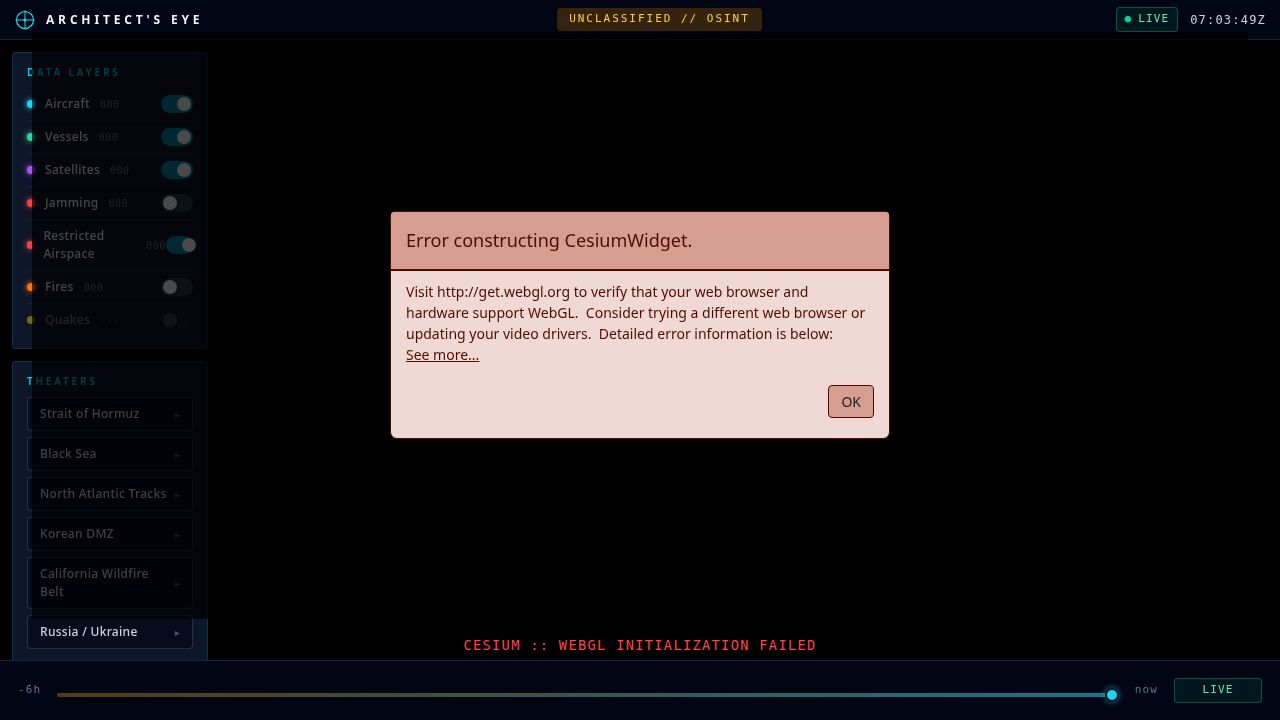
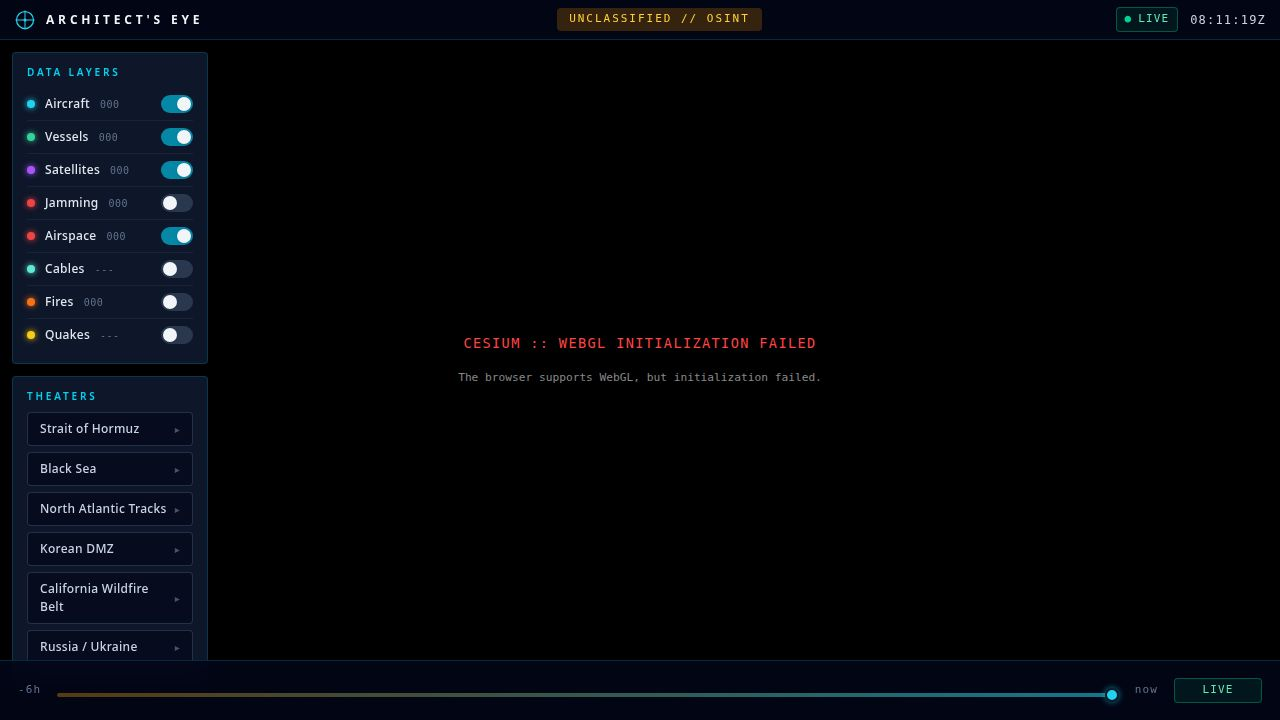
Add interactive submarine cable layer to the map
Integrates a new layer for visualizing submarine cables, including data fetching, rendering with Cesium's PolylineCollection, click-to-inspect functionality, and UI toggles in the EntityPanel and LayerToggles.

Replit-Commit-Author: Agent
Replit-Commit-Session-Id: 271b35b5-e41b-4391-ba1b-3de22340e64c
Replit-Commit-Checkpoint-Type: full_checkpoint
Replit-Commit-Event-Id: a6e43c1e-639c-4319-ae88-d00151cbc64d
Replit-Commit-Screenshot-Url: https://storage.googleapis.com/screenshot-production-us-central1/fbc3cfa2-d368-4926-8dd3-36ac24d619c8/271b35b5-e41b-4391-ba1b-3de22340e64c/ZWLa27W
Replit-Helium-Checkpoint-Created: true

diff --git a/artifacts/architects-eye/src/layers/SubmarineCablesLayer.ts b/artifacts/architects-eye/src/layers/SubmarineCablesLayer.ts
@@ -1,0 +1,149 @@
+import * as Cesium from "cesium";
+import { useStore } from "../store";
+import {
+  registerClickResolver,
+  unregisterClickResolver,
+  type ClickResult,
+} from "../utils/pick-resolvers";
+
+const CABLES_URL = "/data/submarine-cables.geojson";
+const DEFAULT_COLOR = "#5eead4";
+
+export interface CableMeta {
+  id: string;
+  name: string;
+  color: string;
+}
+
+interface CableFeatureProps {
+  id?: string;
+  name?: string;
+  color?: string;
+}
+
+interface CableFeature {
+  type: "Feature";
+  properties: CableFeatureProps;
+  geometry: {
+    type: "MultiLineString";
+    coordinates: number[][][];
+  };
+}
+
+interface CableFeatureCollection {
+  type: "FeatureCollection";
+  features: CableFeature[];
+}
+
+export class SubmarineCablesLayer {
+  private viewer: Cesium.Viewer;
+  private collection: Cesium.PolylineCollection | null = null;
+  private polylineToCable: Map<Cesium.Polyline, CableMeta> = new Map();
+  private unsubscribeStore: (() => void) | null = null;
+  private currentVisibility = false;
+  private destroyed = false;
+
+  constructor(viewer: Cesium.Viewer) {
+    this.viewer = viewer;
+  }
+
+  async mount(): Promise<void> {
+    this.currentVisibility =
+      useStore.getState().layerVisibility.submarineCables;
+
+    const collection = new Cesium.PolylineCollection();
+    collection.show = this.currentVisibility;
+    this.viewer.scene.primitives.add(collection);
+    if (this.viewer.isDestroyed()) {
+      this.destroy();
+      return;
+    }
+    this.collection = collection;
+
+    this.unsubscribeStore = useStore.subscribe((state) => {
+      const next = state.layerVisibility.submarineCables;
+      if (next !== this.currentVisibility) {
+        this.currentVisibility = next;
+        if (this.collection) this.collection.show = next;
+      }
+    });
+
+    registerClickResolver("cable", (picked) => this.resolveClick(picked));
+
+    try {
+      const res = await fetch(CABLES_URL);
+      if (!res.ok) {
+        throw new Error(`HTTP ${res.status}`);
+      }
+      const data = (await res.json()) as CableFeatureCollection;
+      if (this.destroyed || !this.collection) return;
+      this.ingest(data);
+      useStore
+        .getState()
+        .setLayerCount("submarineCables", data.features.length);
+      useStore.getState().setLayerAvailable("submarineCables", true);
+    } catch (err) {
+      console.error("[CABLES] failed to load submarine cables:", err);
+      useStore.getState().setLayerAvailable("submarineCables", false);
+    }
+  }
+
+  private ingest(data: CableFeatureCollection): void {
+    if (!this.collection) return;
+    for (const feature of data.features) {
+      const props = feature.properties ?? {};
+      const meta: CableMeta = {
+        id: props.id ?? "",
+        name: props.name ?? "Unknown cable",
+        color: props.color ?? DEFAULT_COLOR,
+      };
+      const cesiumColor = Cesium.Color.fromCssColorString(meta.color);
+      const material = Cesium.Material.fromType("PolylineGlow", {
+        color: cesiumColor,
+        glowPower: 0.25,
+        taperPower: 1.0,
+      });
+      for (const sub of feature.geometry.coordinates) {
+        if (!sub || sub.length < 2) continue;
+        const flat: number[] = [];
+        for (const [lon, lat] of sub) {
+          flat.push(lon, lat);
+        }
+        const polyline = this.collection.add({
+          positions: Cesium.Cartesian3.fromDegreesArray(flat),
+          width: 2.5,
+          material,
+        });
+        this.polylineToCable.set(polyline, meta);
+      }
+    }
+  }
+
+  private resolveClick(picked: unknown): ClickResult | null {
+    if (!this.currentVisibility) return null;
+    if (!picked || typeof picked !== "object") return null;
+    const primitive = (picked as { primitive?: unknown }).primitive;
+    if (!(primitive instanceof Cesium.Polyline)) return null;
+    const meta = this.polylineToCable.get(primitive);
+    if (!meta) return null;
+    // No fly: cables span thousands of km — clicking opens EntityPanel only.
+    return {
+      selected: { type: "cable", id: meta.id, data: meta },
+    };
+  }
+
+  destroy(): void {
+    this.destroyed = true;
+    unregisterClickResolver("cable");
+    if (this.unsubscribeStore) {
+      this.unsubscribeStore();
+      this.unsubscribeStore = null;
+    }
+    if (this.collection && !this.viewer.isDestroyed()) {
+      this.viewer.scene.primitives.remove(this.collection);
+    }
+    this.collection = null;
+    this.polylineToCable.clear();
+    useStore.getState().setLayerCount("submarineCables", 0);
+  }
+}

diff --git a/artifacts/architects-eye/src/components/EntityPanel.tsx b/artifacts/architects-eye/src/components/EntityPanel.tsx
@@ -3,6 +3,7 @@ import type { Aircraft, Fire, Quake } from "../utils/api";
 import type { SatelliteMeta } from "../utils/tle";
 import type { VesselSelectionData } from "../layers/VesselLayer";
 import type { RestrictedAirspaceZone } from "../data/restricted-airspace";
+import type { CableMeta } from "../layers/SubmarineCablesLayer";
 import { decodeShipType } from "../ws/aisstream-client";
 
 // Per-type body renderers used inside the floating EntityCard. The
@@ -290,12 +291,55 @@ function QuakeDetails({ quake }: { quake: Quake }) {
   );
 }
 
+function CableDetails({ cable }: { cable: CableMeta }) {
+  const hex = cable.color.toUpperCase();
+  return (
+    <>
+      <HeroTitle title={cable.name} subtitle="Submarine fiber-optic cable" />
+      <div style={{ display: "flex", flexDirection: "column", gap: "0.75rem" }}>
+        <Row label="Name" value={cable.name} />
+        <Row label="Slug" value={cable.id || "—"} />
+        <div className="border-b border-slate-800/80 pb-3">
+          <div className="text-slate-500 text-xs tracking-widest uppercase mb-1">
+            Color
+          </div>
+          <div
+            style={{
+              display: "flex",
+              alignItems: "center",
+              gap: "0.625rem",
+            }}
+          >
+            <span
+              aria-hidden="true"
+              style={{
+                display: "inline-block",
+                width: 14,
+                height: 14,
+                borderRadius: 2,
+                background: cable.color,
+                boxShadow: `0 0 6px ${cable.color}`,
+                border: "1px solid rgba(148, 163, 184, 0.35)",
+                flexShrink: 0,
+              }}
+            />
+            <span className="font-mono text-sm tracking-wide text-slate-200">
+              {hex}
+            </span>
+          </div>
+        </div>
+      </div>
+    </>
+  );
+}
+
 export function EntityBody({ entity }: { entity: SelectedEntity }) {
   if (entity.type === "aircraft") return <AircraftDetails ac={entity.data} />;
   if (entity.type === "satellite") return <SatelliteDetails sat={entity.data} />;
   if (entity.type === "vessel") return <VesselDetails v={entity.data} />;
   if (entity.type === "airspace") return <AirspaceDetails zone={entity.data} />;
   if (entity.type === "fire") return <FireDetails fire={entity.data} />;
+  if (entity.type === "cable") return <CableDetails cable={entity.data} />;
   return <QuakeDetails quake={entity.data} />;
 }
 
@@ -313,5 +357,7 @@ export function entityHeaderLabel(entity: SelectedEntity): string {
       return "FIRE";
     case "quake":
       return "QUAKE";
+    case "cable":
+      return "SUBMARINE CABLE";
   }
 }

diff --git a/artifacts/architects-eye/src/globe/Viewer.tsx b/artifacts/architects-eye/src/globe/Viewer.tsx
@@ -6,6 +6,7 @@ import { SatelliteLayer } from "../layers/SatelliteLayer";
 import { VesselLayer } from "../layers/VesselLayer";
 import { JammingLayer } from "../layers/JammingLayer";
 import { RestrictedAirspaceLayer } from "../layers/RestrictedAirspaceLayer";
+import { SubmarineCablesLayer } from "../layers/SubmarineCablesLayer";
 import { FiresLayer } from "../layers/FiresLayer";
 import { QuakesLayer } from "../layers/QuakesLayer";
 import { AISStreamClient } from "../ws/aisstream-client";
@@ -30,6 +31,7 @@ export default function Viewer() {
   const restrictedAirspaceLayerRef = useRef<RestrictedAirspaceLayer | null>(
     null,
   );
+  const submarineCablesLayerRef = useRef<SubmarineCablesLayer | null>(null);
   const firesLayerRef = useRef<FiresLayer | null>(null);
   const quakesLayerRef = useRef<QuakesLayer | null>(null);
   const aisClientRef = useRef<AISStreamClient | null>(null);
@@ -207,6 +209,11 @@ export default function Viewer() {
       restrictedAirspaceLayerRef.current = restrictedAirspaceLayer;
       void restrictedAirspaceLayer.mount();
 
+      // Submarine fiber-optic cable network (static GeoJSON)
+      const submarineCablesLayer = new SubmarineCablesLayer(viewer);
+      submarineCablesLayerRef.current = submarineCablesLayer;
+      void submarineCablesLayer.mount();
+
       // FIRMS wildfire layer (live VIIRS, MODIS fallback)
       const firesLayer = new FiresLayer(viewer);
       firesLayerRef.current = firesLayer;
@@ -280,6 +287,8 @@ export default function Viewer() {
       quakesLayerRef.current = null;
       firesLayerRef.current?.destroy();
       firesLayerRef.current = null;
+      submarineCablesLayerRef.current?.destroy();
+      submarineCablesLayerRef.current = null;
       restrictedAirspaceLayerRef.current?.destroy();
       restrictedAirspaceLayerRef.current = null;
       jammingLayerRef.current?.destroy();

diff --git a/artifacts/architects-eye/src/store/index.ts b/artifacts/architects-eye/src/store/index.ts
@@ -4,6 +4,7 @@ import type { SatelliteMeta } from "../utils/tle";
 import type { VesselSelectionData } from "../layers/VesselLayer";
 import type { BBox } from "../ws/aisstream-client";
 import type { RestrictedAirspaceZone } from "../data/restricted-airspace";
+import type { CableMeta } from "../layers/SubmarineCablesLayer";
 
 export type SelectedEntity =
   | { type: "aircraft"; id: string; data: Aircraft }
@@ -11,7 +12,8 @@ export type SelectedEntity =
   | { type: "vessel"; id: string; data: VesselSelectionData }
   | { type: "airspace"; id: string; data: RestrictedAirspaceZone }
   | { type: "fire"; id: string; data: Fire }
-  | { type: "quake"; id: string; data: Quake };
+  | { type: "quake"; id: string; data: Quake }
+  | { type: "cable"; id: string; data: CableMeta };
 
 export interface EntityCard {
   cardId: string;
@@ -35,6 +37,7 @@ export type LayerKey =
   | "satellites"
   | "jamming"
   | "restrictedAirspace"
+  | "submarineCables"
   | "fires"
   | "quakes";
 
@@ -294,6 +297,7 @@ export const useStore = create<AppStore>((set, get) => ({
     satellites: true,
     jamming: false,
     restrictedAirspace: true,
+    submarineCables: false,
     fires: false,
     quakes: false,
   },
@@ -308,6 +312,7 @@ export const useStore = create<AppStore>((set, get) => ({
     satellites: true,
     jamming: true,
     restrictedAirspace: true,
+    submarineCables: false,
     fires: true,
     quakes: false,
   },
@@ -322,6 +327,7 @@ export const useStore = create<AppStore>((set, get) => ({
     satellites: 0,
     jamming: 0,
     restrictedAirspace: 0,
+    submarineCables: 0,
     fires: 0,
     quakes: 0,
   },

diff --git a/artifacts/architects-eye/src/components/LayerToggles.tsx b/artifacts/architects-eye/src/components/LayerToggles.tsx
@@ -22,6 +22,13 @@ const LAYERS: LayerSpec[] = [
     color: "#ef4444",
     enabled: true,
   },
+  {
+    key: "submarineCables",
+    label: "Cables",
+    color: "#5eead4",
+    enabled: true,
+    showLoadingPlaceholder: true,
+  },
   { key: "fires", label: "Fires", color: "#f97316", enabled: true },
   {
     key: "quakes",

diff --git a/artifacts/architects-eye/src/utils/pick-resolvers.ts b/artifacts/architects-eye/src/utils/pick-resolvers.ts
@@ -26,6 +26,7 @@ export type ClickResolver = (picked: unknown) => ClickResult | null;
 
 const CLICK_PRIORITY = [
   "airspace",
+  "cable",
   "fire",
   "quake",
   "satellite",